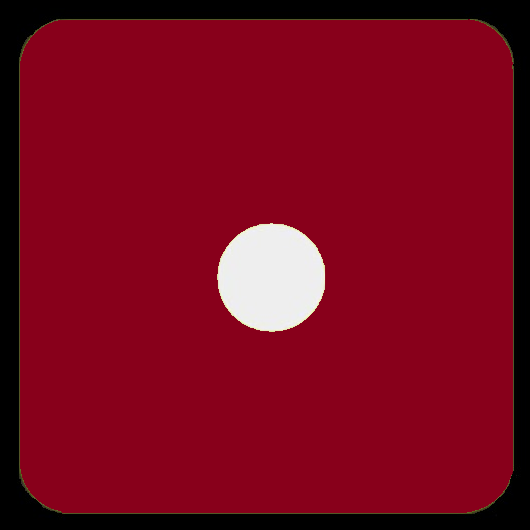
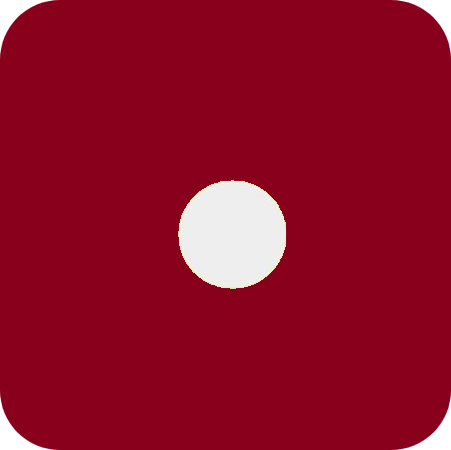
fixed dices

Changed region(s): [[0.0, 0.0, 1.0, 1.0], [0.3725, 0.4044, 0.6519, 0.6533]]

diff --git a/dice.py b/dice.py
@@ -3,12 +3,14 @@ from img_loader import ImageLoader
 
 
 class Dice(pg.sprite.Sprite, ImageLoader):
-    img_names = ['one-dice.png', 'two-dice.png', 'three-dice.png',
-                 'four-dice.png', 'five-dice.png', 'six-dice.png']
+    img_names = ['dice_1.png', 'dice_2.png', 'dice_3.png',
+                 'dice_4.png', 'dice_5.png', 'dice_6.png']
 
-    def __init__(self, screen_size, group):
+    def __init__(self, field_size, field_indent, group):
         super(Dice, self).__init__(group)
-        self.images = [self.load_image(img) for img in Dice.img_names]
+        self.images = [pg.transform.scale(self.load_image(img), (150, 150)) for img in Dice.img_names]
         self.image = self.images[0]
         self.rect = self.image.get_rect()
-        self.rect.x, self.rect.y = screen_size[0] // 2, screen_size[1] // 2
+        img_width, img_height = self.image.get_size()
+        self.rect.x = field_indent[0] + field_size[0] // 2 - img_width // 2
+        self.rect.y = field_indent[1] + field_size[1] // 2 - img_height // 2

diff --git a/field.py b/field.py
@@ -1,6 +1,6 @@
 from random import choice
 from cell import *
-from Hero import *
+from hero import *
 from dice import *
 
 # import pygame.examples.eventlist
@@ -74,6 +74,9 @@ class Field(pg.sprite.Sprite):
     def be_way(self, i, j) -> None:
         self.cells[i][j] = 'way'
 
+    def get_size(self):
+        return self.cell_size * len(self.cells[0]), self.cell_size * len(self.cells)
+
     def get_indent(self):
         return self.left, self.top
 
@@ -103,7 +106,7 @@ def main():
     all_sprites = pg.sprite.Group()
     field = Field(screen)
     hero = Hero(all_sprites)
-    dice = Dice(size, all_sprites)
+    dice = Dice(field.get_size(), field.get_indent(), all_sprites)
     running = True
     clock = pg.time.Clock()
     fps = 30
